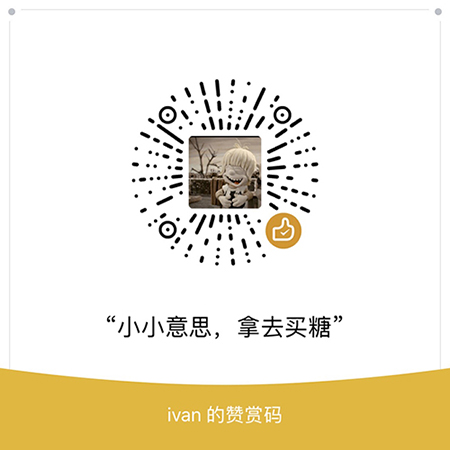
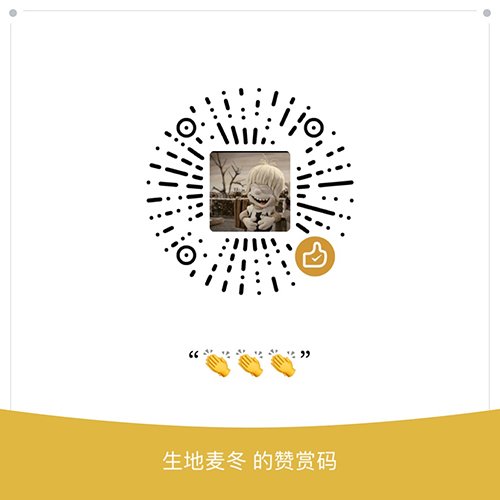
Site updated: 2019-10-21 13:56:33

diff --git a/2019/10/18/react-fiber/index.html b/2019/10/18/react-fiber/index.html
@@ -43,7 +43,7 @@
 <meta property="og:image" content="https://bobi.ink/images/react-fiber/resume-4.png">
 <meta property="og:image" content="https://bobi.ink/images/react-fiber/new-frame.jpg">
 <meta property="og:image" content="https://bobi.ink/images/sponsor.jpg">
-<meta property="og:updated_time" content="2019-10-21T03:17:35.037Z">
+<meta property="og:updated_time" content="2019-10-21T05:35:30.125Z">
 <meta name="twitter:card" content="summary">
 <meta name="twitter:title" content="这可能是最通俗的 React Fiber 打开方式">
 <meta name="twitter:description" content="写一篇关于 React Fiber 的文章， 这个 Flag 立了很久，这也是今年的目标之一. 最近的在掘金的文章获得很多关注和鼓励，给了我很多动力，所以下定决心好好把它写出来。 我会以最通俗的方式将它讲透, 因此这算是一篇科普式的文章。不管你是使用React、还是Vue，这里面的思想值得学习学习!    一年一度的 React 春晚: React Conf 即将到来，不知道今年会不会有什么惊喜，">
@@ -169,35 +169,14 @@
 </li>
 <li><p>😦 <strong>了解它有啥用</strong>? <em>React Fiber 代码很复杂，门槛很高，你不了解它，后面 React 新出的 Killer Feature 你可能就更不能理解了</em></p>
 </li>
-<li><p>🤥 <strong>我不是升到React v16了吗? 没什么出奇的啊</strong>? <em>真正要体会到 React Fiber 重构效果，可能要等到 v17，也就是说，现在的React 还是同步渲染的，一直在跳票、不是说今年第二季度就出来了吗</em>？</p>
+<li><p>🤥 <strong>我不是升到React v16了吗? 没什么出奇的啊</strong>? <em>真正要体会到 React Fiber 重构效果，可能要等到 v17，v16 是一个过渡版本，也就是说，现在的React 还是同步渲染的，一直在跳票、不是说今年第二季度就出来了吗</em>？</p>
 </li>
 <li><p>😁 <strong>不好意思，一不小心又写得有点长，你就当小说看吧, 代码都是伪代码</strong></p>
 </li>
 </ul>
 <p><br></p>
 <p><strong>以下文章大纲</strong></p>
-<!-- TOC -->
-<ul>
-<li><a href="#单处理进程调度-fiber-不是一个新的东西">单处理进程调度: Fiber 不是一个新的东西</a></li>
-<li><a href="#类比浏览器javascript执行环境">类比浏览器JavaScript执行环境</a></li>
-<li><a href="#何为-fiber">何为 Fiber</a><ul>
-<li><a href="#1-一种流程控制原语">1. 一种流程控制原语</a></li>
-<li><a href="#2-一个执行单元">2. 一个执行单元</a></li>
-</ul>
-</li>
-<li><a href="#react-的fiber改造">React 的Fiber改造</a><ul>
-<li><a href="#1-数据结构的调整">1. 数据结构的调整</a></li>
-<li><a href="#2-两个阶段的拆分">2. 两个阶段的拆分</a></li>
-<li><a href="#3-reconcilation">3. Reconcilation</a></li>
-<li><a href="#4-双缓冲">4. 双缓冲</a></li>
-<li><a href="#5-副作用的收集和提交">5. 副作用的收集和提交</a></li>
-</ul>
-</li>
-<li><a href="#⚠-未展开部分-🚧----中断和恢复">⚠ 未展开部分 🚧 – 中断和恢复</a></li>
-<li><a href="#凌波微步">凌波微步</a></li>
-<li><a href="#站在巨人的肩膀上">站在巨人的肩膀上</a></li>
-</ul>
-<!-- /TOC -->
+<!-- TOC -->autoauto- <a href="#单处理进程调度-fiber-不是一个新的东西">单处理进程调度: Fiber 不是一个新的东西</a>auto- <a href="#类比浏览器javascript执行环境">类比浏览器JavaScript执行环境</a>auto- <a href="#何为-fiber">何为 Fiber</a>auto  - <a href="#1-一种流程控制原语">1. 一种流程控制原语</a>auto  - <a href="#2-一个执行单元">2. 一个执行单元</a>auto- <a href="#react-的fiber改造">React 的Fiber改造</a>auto  - <a href="#1-数据结构的调整">1. 数据结构的调整</a>auto  - <a href="#2-两个阶段的拆分">2. 两个阶段的拆分</a>auto  - <a href="#3-reconcilation">3. Reconcilation</a>auto  - <a href="#4-双缓冲">4. 双缓冲</a>auto  - <a href="#5-副作用的收集和提交">5. 副作用的收集和提交</a>auto- <a href="#⚠-未展开部分-🚧----中断和恢复">⚠ 未展开部分 🚧 – 中断和恢复</a>auto- <a href="#凌波微步">凌波微步</a>auto- <a href="#站在巨人的肩膀上">站在巨人的肩膀上</a>autoauto<!-- /TOC -->
 <p><br><br><br></p>
 <h2 id="单处理进程调度-fiber-不是一个新的东西"><a href="#单处理进程调度-fiber-不是一个新的东西" class="headerlink" title="单处理进程调度: Fiber 不是一个新的东西"></a>单处理进程调度: Fiber 不是一个新的东西</h2><p><br></p>
 <p><img src="/images/react-fiber/dos.jpg" alt><br><i>这个黑乎乎的界面应该就是微软的 <code>DOS</code> 操作系统</i></p>
@@ -289,6 +268,14 @@
 </blockquote>
 <p><img src="/images/react-fiber/frame-full.jpg" alt><br><i>图片来源: <a href="https://developers.google.com/web/fundamentals/performance/rendering" target="_blank" rel="noopener">Rendering Performance</a></i></p>
 <p><strong>它只是一个’JavaScript’，同时只能做一件事情，这个和 <code>DOS</code> 的单任务操作系统一样的，事情只能一件一件的干。要是前面有一个傻叉任务长期霸占CPU，后面什么事情都干不了，浏览器会呈现卡死的状态，这样的用户体验就会非常差</strong>。</p>
+<p><br></p>
+<p><strong>对于’前端框架‘来说，解决这种问题有三个方向</strong>:</p>
+<ul>
+<li>1⃣ 优化每个任务，让它有多快就多快。挤压CPU运算量</li>
+<li>2⃣ 快速响应用户，让用户觉得够快，不能阻塞用户的交互</li>
+<li>3⃣ 尝试 Worker 多线程</li>
+</ul>
+<p>Vue 选择的是第1⃣, 因为对于Vue来说，使用<code>模板</code>让它有了很多优化的空间，配合响应式机制可以让Vue可以精确地进行节点更新, 读者可以去看一下<a href="https://www.yuque.com/vueconf/2019/gwn1z0" target="_blank" rel="noopener">今年Vue Conf 尤雨溪的演讲</a>，非常棒!；而 React 选择了2⃣ 。对于Worker 多线程渲染方案也有人尝试，要保证状态和视图的一致性相当麻烦。</p>
 <p><br></p>
 <p>React 为什么要引入 Fiber 架构？ 看看下面的火焰图，这是React V15 下面的一个列表渲染资源消耗情况。整个渲染花费了130ms, <strong>🔴在这里面 React 会递归比对VirtualDOM树，找出需要变动的节点，然后同步更新它们, 一气呵成。这个过程 React 称为 <code>Reconcilation</code>(中文可以译为<code>协调</code>)</strong>.</p>
 <p><br></p>
@@ -465,7 +452,7 @@
 <td>Virtual DOM 节点</td>
 </tr>
 <tr>
-<td>参数</td>
+<td>输入</td>
 <td>函数参数</td>
 <td>Props</td>
 </tr>
@@ -473,6 +460,11 @@
 <td>本地状态</td>
 <td>本地变量</td>
 <td>State</td>
+</tr>
+<tr>
+<td>输出</td>
+<td>函数返回值</td>
+<td>React Element</td>
 </tr>
 <tr>
 <td>下级</td>
@@ -533,9 +525,10 @@
 <p><br></p>
 <p>也就是说，在协调阶段如果时间片用完，React就会选择让出控制权。因为协调阶段执行的工作不会导致任何用户可见的变更，所以在这个阶段让出控制权不会有什么问题。</p>
 <p>需要注意的是：因为协调阶段可能被中断、恢复，甚至重做，<strong>⚠React 协调阶段的生命周期钩子可能会被调用多次!</strong>, 例如 <code>componentWillMount</code> 可能会被调用两次。 </p>
-<p>因此建议 <strong>协调阶段的生命周期钩子不应该包含副作用</strong>. 索性 React 就废弃了这部分可能包含副作用的生命周期方法，例如<code>componentWillMount</code>、<code>componentWillMount</code>. v17后我们就不能再用它们了, 所以现有的应用应该尽快迁移.</p>
+<p>因此建议 <strong>协调阶段的生命周期钩子不要包含副作用</strong>. 索性 React 就废弃了这部分可能包含副作用的生命周期方法，例如<code>componentWillMount</code>、<code>componentWillMount</code>. v17后我们就不能再用它们了, 所以现有的应用应该尽快迁移.</p>
 <p><br></p>
 <p>现在你应该知道为什么’提交阶段’必须同步执行，不能中断的吧？ 因为我们要正确地处理各种副作用，包括DOM变更、还有你在<code>componentDidMount</code>中发起的异步请求、useEffect 中定义的副作用… 因为有副作用，所以必须保证按照次序只调用一次，况且会有用户可以察觉到的变更, 不容差池。</p>
+<p>关于为什么要拆分两个阶段，<a href="https://github.com/facebook/react/issues/13186#issuecomment-403959161" target="_blank" rel="noopener">这里</a>有更详细的解释。</p>
 <p><br><br><br></p>
 <h3 id="3-reconcilation"><a href="#3-reconcilation" class="headerlink" title="3. Reconcilation"></a>3. Reconcilation</h3><p>接下来就是就是我们熟知的<code>Reconcilation</code>(为了方便理解，本文不区分Diff和Reconcilation, 两者是同一个东西)阶段了. <strong>思路和 Fiber 重构之前差别不大, 只不过这里不会再递归去比对、而且不会马上提交变更</strong>。</p>
 <p>首先再进一步看一下<code>Fiber</code>的结构:</p>
@@ -617,7 +610,7 @@
 <p>但是它肯定不是完美的，因为浏览器无法实现抢占式调度，无法阻止开发者做傻事的，开发者可以随心所欲，想挖多大的坑，就挖多大的坑。</p>
 <p>为了共同创造美好的世界，我们要严律于己， 该做的优化还需要做: 纯组件、虚表、简化组件、缓存…</p>
 <p>尤雨溪在今年的<a href="https://www.yuque.com/vueconf/2019" target="_blank" rel="noopener">Vue Conf</a>一个观点让我印象深刻：<strong>如果我们可以把更新做得足够快的话，理论上就不需要时间分片了</strong>。</p>
-<p>React Fiber本质上是为了解决 React 更新低效率的问题，<strong>不要期望 Fiber 能给你现有应用带来质的提升, 如果性能问题是自己造成的，自己的锅还是得自己背</strong>.</p>
+<p><strong>时间分片并没有降低整体的工作量，该做的还是要做</strong>。 所以说 React Fiber 本质上是为了解决 React 更新低效率的问题，<strong>不要期望 Fiber 能给你现有应用带来质的提升, 如果性能问题是自己造成的，自己的锅还是得自己背</strong>.</p>
 <p><br><br><br></p>
 <h2 id="站在巨人的肩膀上"><a href="#站在巨人的肩膀上" class="headerlink" title="站在巨人的肩膀上"></a>站在巨人的肩膀上</h2><p><br></p>
 <p>本文之所以能成文，离不开社区上优质的开源项目和资料。</p>
@@ -634,13 +627,13 @@
 <p><strong>优秀的文章 &amp; 演讲</strong></p>
 <p>本文只是对React Fiber进行了简单的科普，实际上React 的实现比本文复杂的多，如果你想深入理解React Fiber的，下面这些文章不容错过:</p>
 <ul>
-<li><a href="https://www.youtube.com/watch?v=ZCuYPiUIONs" target="_blank" rel="noopener">Lin Clark - A Cartoon Intro to Fiber - React Conf 2017 👍</a></li>
-<li><a href="https://zhuanlan.zhihu.com/p/37095662" target="_blank" rel="noopener">司徒正美: React Fiber架构 👍</a></li>
+<li><a href="https://www.youtube.com/watch?v=ZCuYPiUIONs" target="_blank" rel="noopener">Lin Clark - A Cartoon Intro to Fiber - React Conf 2017 👍</a> React Fiber 启蒙</li>
+<li><a href="https://zhuanlan.zhihu.com/p/37095662" target="_blank" rel="noopener">司徒正美: React Fiber架构 👍</a> 看不如写</li>
+<li><a href="https://www.zhihu.com/people/NE_SmallTown/posts" target="_blank" rel="noopener">展望 React 17，回顾 React 往事 👍</a> 看完 <a href="https://www.zhihu.com/people/NE_SmallTown" target="_blank" rel="noopener">Heaven</a> 的相关文章，会觉得你了解的React 知识真的只是<a href="https://zhuanlan.zhihu.com/jheaven" target="_blank" rel="noopener">冰山一角</a>，我们都没资格说我们懂 React。</li>
+<li><a href="https://zhuanlan.zhihu.com/p/36425839" target="_blank" rel="noopener">浅入 React16/fiber 系列 👍</a> 同样来自 Heaven</li>
 <li><a href="https://www.zhihu.com/search?type=content&amp;q=requestIdleCallback" target="_blank" rel="noopener">淡苍：深入剖析 React Concurrent 👍</a></li>
-<li><a href="https://engineering.hexacta.com/didact-fiber-incremental-reconciliation-b2fe028dcaec" target="_blank" rel="noopener">Didact Fiber: Incremental reconciliation  👍</a></li>
-<li><a href="https://zhuanlan.zhihu.com/p/36425839" target="_blank" rel="noopener">浅入 React16/fiber 系列 👍</a></li>
+<li><a href="https://engineering.hexacta.com/didact-fiber-incremental-reconciliation-b2fe028dcaec" target="_blank" rel="noopener">Didact Fiber: Incremental reconciliation  👍</a> 实现了简单的 React Fiber</li>
 <li><a href="https://zhuanlan.zhihu.com/p/26027085" target="_blank" rel="noopener">程墨: React Fiber是什么</a></li>
-<li><a href="https://www.zhihu.com/people/NE_SmallTown/posts" target="_blank" rel="noopener">展望 React 17，回顾 React 往事</a></li>
 <li><a href="https://zhuanlan.zhihu.com/p/57346388" target="_blank" rel="noopener">译 深入React fiber架构及源码</a></li>
 <li><a href="http://www.ayqy.net/blog/dive-into-react-fiber/" target="_blank" rel="noopener">黯羽轻扬: 完全理解React Fiber</a></li>
 <li><a href="https://github.com/facebook/react/issues/7942" target="_blank" rel="noopener">Fiber Principles: Contributing To Fiber</a></li>
@@ -671,6 +664,7 @@
 <p>问卷调查，你觉得这种文章风格怎样？</p>
 <p>A. 事无巨细，太啰嗦了<br>B. 娓娓道来，深入浅出我喜欢<br>C. 内容不够深入<br>D. 文章篇幅太长，可以拆分</p>
 <p>多选，下方评论，👍点赞走起</p>
+<p>改了一个正经一点的网名：_sx_(傻叉) -&gt; 生地麦冬</p>
 <p><br></p>
 <p><img src="/images/sponsor.jpg" alt></p>
 <p><br></p>
